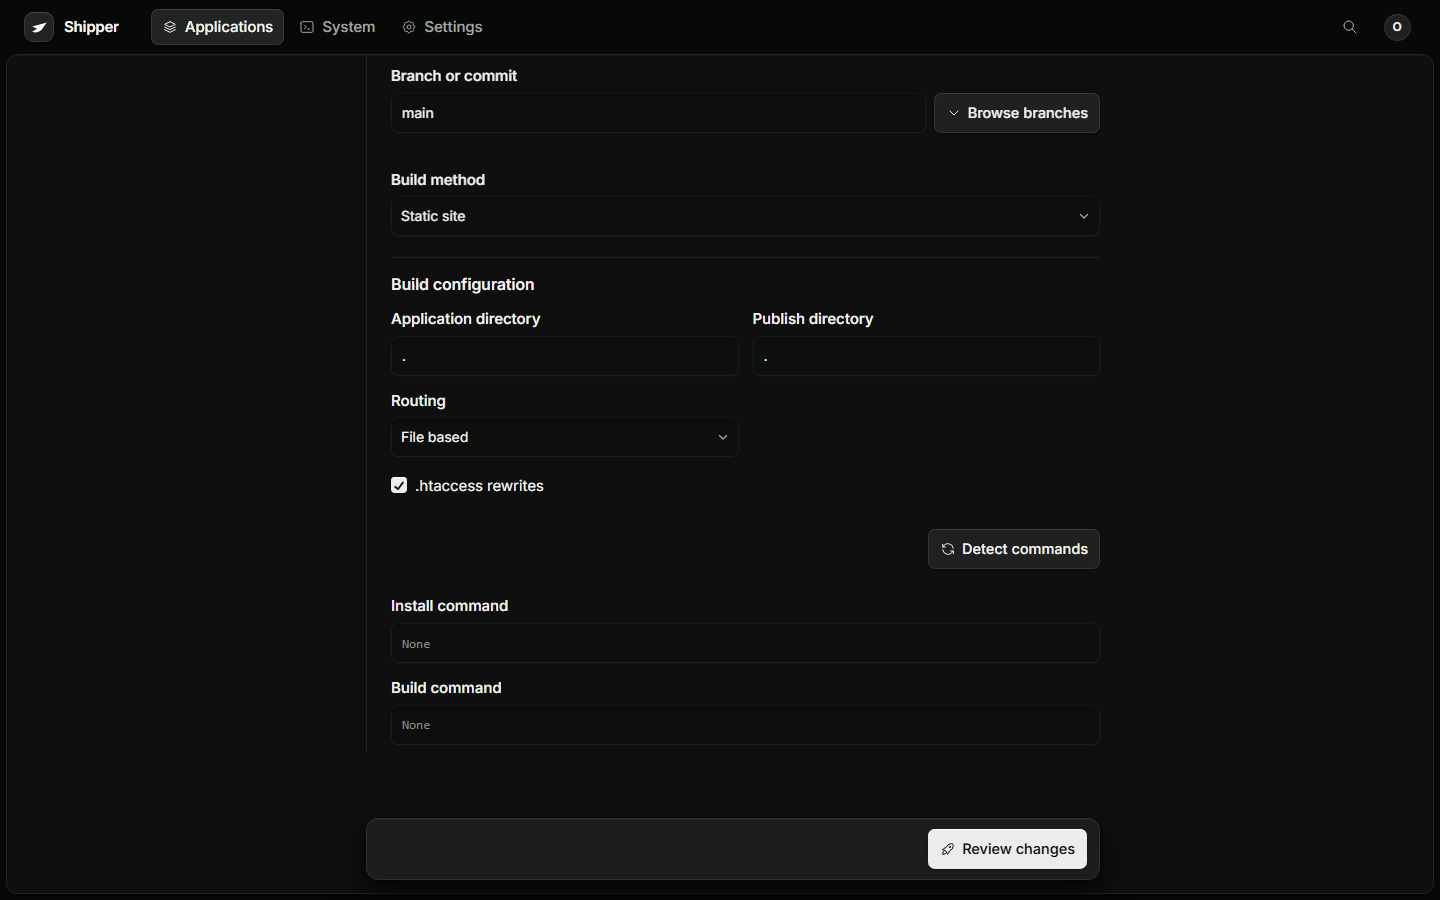
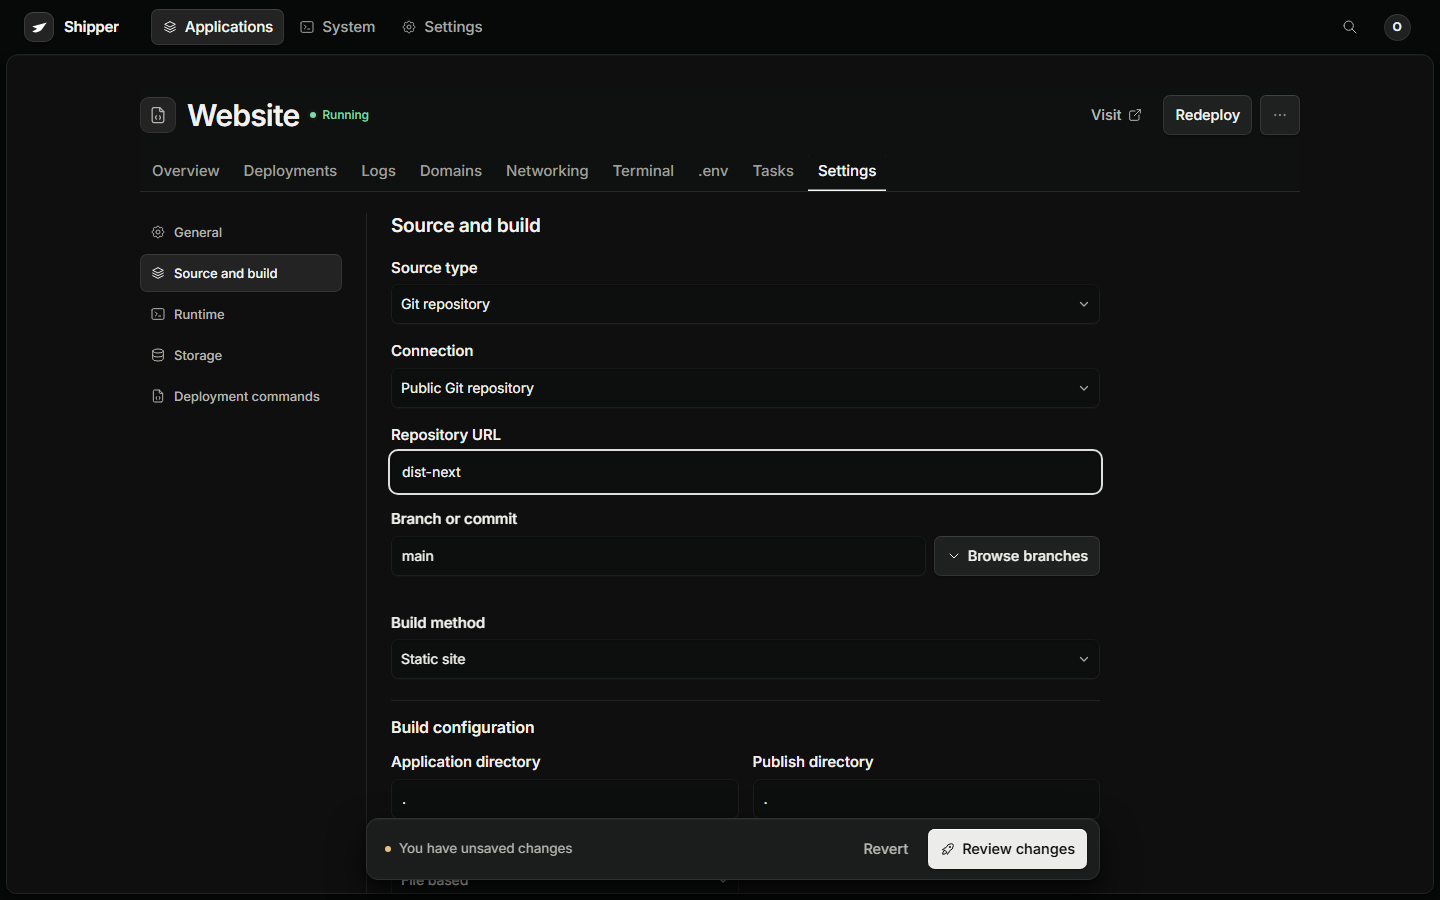
fix: space the service header and add revert to unsaved edits
- Give the compose service header clear groups: breadcrumb, status, then
  image and port as muted facts behind a divider.
- Show "You have unsaved changes" and a ghost Revert action next to Review
  changes in settings, domains and variables, and use the same wording in
  networking.

diff --git a/web/src/components/Services.tsx b/web/src/components/Services.tsx
@@ -59,7 +59,7 @@ export function ServicePanel(props: { tab?: string; selectTab: (tab: string) => 
     return props.save({ ...config, services: [...(config.services ?? []).filter(s => s.name !== props.name), { ...current, ...value, name: props.name }] });
   }
   async function settings(e: SubmitEvent) { e.preventDefault();setError("");try { await save({ port: port(), healthPath: health(), memoryMB: memory(),runtime:runtime() }); }catch (e) { setError((e as Error).message); } }
-  return <section class="service-detail"><div class="app-context"><header class="service-heading"><Button icon="back" variant="ghost" class="service-parent" onClick={props.close}>{props.application.name}</Button><span class="service-sep" aria-hidden="true">/</span><span class="service-name">{props.name}</span><Status value={state()} /><Show when={service()}>{item => <span class="service-facts"><span class="mono truncate" title={item().image}>{item().image}</span><span class="mono">{item().port ? ":" + item().port : "Internal"}</span></span>}</Show><Show when={props.catalog?.documentation}><a class="service-docs" href={props.catalog!.documentation} target="_blank" rel="noreferrer">Documentation<Icon name="external" /></a></Show><ActionMenu label="Service actions" icon="more" class="service-actions" scope={tab()}><For each={running() ? ["restart", "stop"] : ["start"]}>{action=><button disabled={props.busy} onClick={()=>props.lifecycle(action)}>{action[0].toUpperCase()+action.slice(1)} service</button>}</For></ActionMenu></header>
+  return <section class="service-detail"><div class="app-context"><header class="service-heading"><Button icon="back" variant="ghost" class="service-parent" onClick={props.close}>{props.application.name}</Button><span class="service-sep" aria-hidden="true">/</span><span class="service-name">{props.name}</span><Status value={state()} /><Show when={service()}>{item => <span class="service-facts"><span class="truncate" title={item().image}>{item().image}</span><span class="service-fact-sep" aria-hidden="true" /><span>{item().port ? "Port " + item().port : "Internal"}</span></span>}</Show><Show when={props.catalog?.documentation}><a class="service-docs" href={props.catalog!.documentation} target="_blank" rel="noreferrer">Documentation<Icon name="external" /></a></Show><ActionMenu label="Service actions" icon="more" class="service-actions" scope={tab()}><For each={running() ? ["restart", "stop"] : ["start"]}>{action=><button disabled={props.busy} onClick={()=>props.lifecycle(action)}>{action[0].toUpperCase()+action.slice(1)} service</button>}</For></ActionMenu></header>
     <nav class="service-tabs" aria-label="Service navigation"><For each={serviceTabs}>{value => <button classList={{ active: tab() === value }} aria-current={tab() === value ? "page" : undefined} onClick={() => setTab(value)}>{value === "env" ? ".env" : value[0].toUpperCase() + value.slice(1)}</button>}</For></nav>
     </div><Show when={error()}><ErrorNotice message={error()} /></Show>
     <Show when={tab() === "backups"}><Backups application={props.application} services={props.services} service={props.name} save={props.save}/></Show>

diff --git a/web/src/components/Variables.tsx b/web/src/components/Variables.tsx
@@ -105,7 +105,7 @@ export default function Variables(props: { application: Application; busy: boole
       </Show>
       <div class="variable-options"><Show when={variableHasContent(variable())}><IconButton icon="more" label={"Options for " + (variable().name || "variable " + (index + 1))} ghost aria-haspopup="dialog" aria-expanded={options()?.index === index} onClick={event => openOptions(index, event.currentTarget)} /></Show></div>
     </div>}</Index></div></div>
-    <Show when={!props.embedded}><EditorActions docked={dirty()}><Show when={!props.service&&(props.application.config.repository||props.application.config.localSource)}><Button variant="ghost" disabled={props.busy||saving()} onClick={()=>void findMissing()}>Find missing variables</Button></Show><Button type="submit" variant="primary" form={id} icon="deploy" disabled={props.busy || saving() || !dirty()}>{saving() ? "Reviewing changes" : "Review changes"}</Button></EditorActions></Show>
+    <Show when={!props.embedded}><EditorActions docked={dirty()} revert={dirty() ? () => { setItems([...variablesForSave(props.application.config.variables ?? []), emptyVariable()]); setVisible({}); setError(""); clearDraft(key); } : undefined}><Show when={!props.service&&(props.application.config.repository||props.application.config.localSource)}><Button variant="ghost" disabled={props.busy||saving()} onClick={()=>void findMissing()}>Find missing variables</Button></Show><Button type="submit" variant="primary" form={id} icon="deploy" disabled={props.busy || saving() || !dirty()}>{saving() ? "Reviewing changes" : "Review changes"}</Button></EditorActions></Show>
     <Show when={options()}>{opened => <Portal><div ref={panel} class="variable-menu" role="dialog" aria-label={"Options for " + (items()[opened().index]?.name || "variable")} style={{ left: opened().left + "px", top: opened().top + "px" }}>
       <header class="variable-menu-heading"><strong>{items()[opened().index]?.name || "Variable"}</strong><IconButton icon="close" label="Close variable options" ghost onClick={() => closeOptions(true)} /></header>
       <label class="check-field"><input type="checkbox" checked={items()[opened().index]?.secret} onChange={event => update(opened().index, { secret: event.currentTarget.checked })} />Secret</label>

diff --git a/web/src/components/EditorActions.tsx b/web/src/components/EditorActions.tsx
@@ -1,9 +1,11 @@
 import { createContext, createSignal, onCleanup, onMount, Show, useContext, type Accessor, type JSX } from "solid-js";
 import { Portal } from "solid-js/web";
+import { Button } from "./Controls";
 
 export const EditorActionsContext = createContext<Accessor<HTMLDivElement | undefined>>();
 
-export default function EditorActions(props: { docked?: boolean; measure?: "form"; inlineWhenFits?: boolean; children: JSX.Element }) {
+// Pass revert while there are unsaved edits to show the unsaved message and a Revert action.
+export default function EditorActions(props: { docked?: boolean; measure?: "form"; inlineWhenFits?: boolean; revert?: () => void; children: JSX.Element }) {
   const target = useContext(EditorActionsContext);
   const [fits, setFits] = createSignal(false);
   let anchor: HTMLDivElement | undefined;
@@ -25,8 +27,12 @@ export default function EditorActions(props: { docked?: boolean; measure?: "form
     if (scroller.firstElementChild) observer.observe(scroller.firstElementChild);
     onCleanup(() => observer.disconnect());
   });
+  const unsaved = () => <Show when={props.revert}>{revert => <>
+    <span class="editor-unsaved" role="status">You have unsaved changes</span>
+    <Button variant="ghost" onClick={revert()}>Revert</Button>
+  </>}</Show>;
   return <><Show when={props.inlineWhenFits}><div ref={anchor} class="editor-actions-anchor" /></Show>
-  <Show when={props.docked !== false && (!props.inlineWhenFits || !fits()) && target?.()} fallback={<div class="form-actions" classList={{ "editor-actions-inline": !!props.inlineWhenFits }}>{props.children}</div>}>
-    {mount => <Portal mount={mount()}><div class="editor-action-row" classList={{ "editor-action-form": props.measure === "form" }}>{props.children}</div></Portal>}
+  <Show when={props.docked !== false && (!props.inlineWhenFits || !fits()) && target?.()} fallback={<div class="form-actions" classList={{ "editor-actions-inline": !!props.inlineWhenFits }}>{unsaved()}{props.children}</div>}>
+    {mount => <Portal mount={mount()}><div class="editor-action-row" classList={{ "editor-action-form": props.measure === "form" }}>{unsaved()}{props.children}</div></Portal>}
   </Show></>;
 }

diff --git a/web/src/styles.css b/web/src/styles.css
@@ -13269,24 +13269,70 @@ input[type="checkbox"]:disabled {
   height: 30px;
 }
 
-/* Compose service header facts. */
+/* Compose service header: breadcrumb, then status, then image and port as quiet facts. */
+.service-heading {
+  gap: 10px;
+}
 .service-heading .status {
   flex: none;
+  margin-inline-start: 6px;
 }
 .service-facts {
   display: inline-flex;
   align-items: center;
-  gap: 10px;
+  gap: 12px;
   min-width: 0;
+  margin-inline-start: 10px;
+  padding-inline-start: 16px;
+  border-inline-start: 1px solid var(--border);
   color: var(--muted);
-  font-size: 12.5px;
+  font-size: 13px;
 }
 .service-facts .truncate {
-  max-width: 280px;
+  max-width: 320px;
+}
+.service-fact-sep {
+  width: 3px;
+  height: 3px;
+  flex: none;
+  border-radius: 50%;
+  background: var(--muted);
+  opacity: 0.6;
 }
 @media (width < 48rem) {
   .service-facts {
     display: none;
+  }
+}
+
+/* Unsaved edits: message on the left, Revert beside the main action. */
+.editor-unsaved {
+  display: inline-flex;
+  align-items: center;
+  gap: 8px;
+  margin-inline-end: auto;
+  padding-inline-start: 6px;
+  color: var(--secondary);
+  font-size: 13.5px;
+}
+.editor-unsaved::before {
+  content: "";
+  width: 6px;
+  height: 6px;
+  border-radius: 50%;
+  background: var(--warning);
+}
+.editor-action-row:has(.editor-unsaved) {
+  justify-content: flex-end;
+}
+@media (width < 48rem) {
+  .editor-unsaved {
+    font-size: 0;
+    padding-inline-start: 8px;
+  }
+  .editor-unsaved::after {
+    content: "Unsaved";
+    font-size: 13px;
   }
 }
 

diff --git a/web/src/components/ApplicationSettings.tsx b/web/src/components/ApplicationSettings.tsx
@@ -1,4 +1,4 @@
-import { createStore } from "solid-js/store";
+import { createStore, reconcile } from "solid-js/store";
 import { For, Show, createEffect, createMemo, createSignal, createUniqueId, onCleanup, onMount } from "solid-js";
 import { Portal } from "solid-js/web";
 import type { Application, StaticConfig } from "../types";
@@ -68,6 +68,7 @@ export default function ApplicationSettings(props: {
     saveVolatileDraft(key, composeEdited() ? { ...safe, composeYAML: config.composeYAML, composeKeep: config.composeKeep } : safe);
   });
   createEffect(() => { if (props.showSource) setArea("source"); });
+  function revert() { setConfig(reconcile(normalizedConfig(props.application.config))); setError(""); clearDraft(key); }
   async function save(e: SubmitEvent) {
     e.preventDefault();
     if (props.busy || reviewing() || !dirty()) return;
@@ -151,7 +152,7 @@ export default function ApplicationSettings(props: {
               change={hooks => setConfig("hooks", hooks)} />
           </section>
           <Show when={error()}><ErrorNotice message={error()} /></Show>
-          <EditorActions docked={dirty()} measure="form" inlineWhenFits>
+          <EditorActions docked={dirty()} measure="form" inlineWhenFits revert={dirty() ? revert : undefined}>
             <Button variant="primary" type="submit" form={formId} icon="deploy" disabled={props.busy || !dirty()} aria-disabled={reviewing() || undefined}>
               {reviewing() ? "Reviewing changes" : "Review changes"}
             </Button>

diff --git a/web/src/components/ApplicationNetworking.tsx b/web/src/components/ApplicationNetworking.tsx
@@ -114,8 +114,8 @@ export default function ApplicationNetworking(props: {
     </Show>
     <Show when={error() && conflict() === undefined}><ErrorNotice message={error()} /></Show>
     <Show when={info.data && changed() && !saving()}><div class="form-actions network-review-bar">
-      <Show when={changed()}><span class="network-unsaved-page"><span class="network-unsaved-dot" />Unsaved changes</span></Show>
-      <Show when={changed()}><Button variant="neutral" type="button" disabled={saving()} onClick={reset}>Discard changes</Button></Show>
+      <Show when={changed()}><span class="network-unsaved-page"><span class="network-unsaved-dot" />You have unsaved changes</span></Show>
+      <Show when={changed()}><Button variant="ghost" type="button" disabled={saving()} onClick={reset}>Revert</Button></Show>
       <Show when={portProblem()}><span class="network-review-block" role="alert"><Icon name="warning" />{portProblem()}</span></Show>
       <Show when={conflict() !== undefined || tlsInvalid()}><button type="button" class="network-issue-count" onClick={() => document.querySelector<HTMLInputElement>(".network-field.is-conflict input, .network-tls .is-invalid")?.focus()}>{issues()} {issues() === 1 ? "issue" : "issues"}</button></Show>
       <Button type="submit" variant="primary" disabled={!changed() || props.busy || saving() || issues() > 0}>{saving() ? "Preparing review" : "Review changes"}</Button>

diff --git a/web/src/components/Domains.tsx b/web/src/components/Domains.tsx
@@ -143,6 +143,6 @@ export default function Domains(props: { application: Application; proxy?: Proxy
       </Show>
       </>;
     }}</For></div>}</For><Show when={!domains().length && canAdd()}><div class="empty-state">No domains <a class="docs-link" href={docs("domains/")} target="_blank" rel="noreferrer">Domain guide</a></div></Show></div></div>
-    <Show when={domains().length || dirty()}><EditorActions docked={dirty()} measure="form" inlineWhenFits><Button variant="primary" type="submit" form={formId} icon="check" disabled={props.busy || !dirty()}>Save domains</Button></EditorActions></Show>
+    <Show when={domains().length || dirty()}><EditorActions docked={dirty()} measure="form" inlineWhenFits revert={dirty() ? () => { setDomains(saved()); setEditing(undefined); setError(""); } : undefined}><Button variant="primary" type="submit" form={formId} icon="check" disabled={props.busy || !dirty()}>Save domains</Button></EditorActions></Show>
   </form>;
 }
